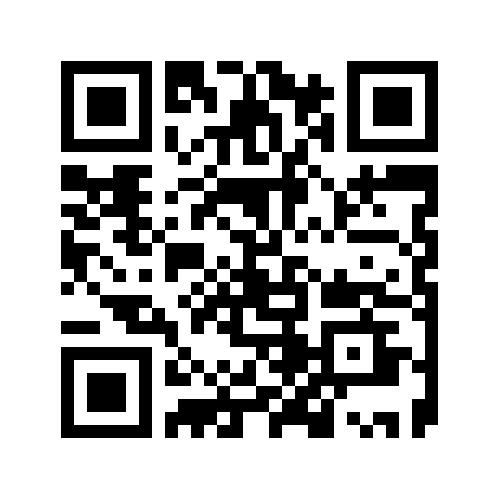
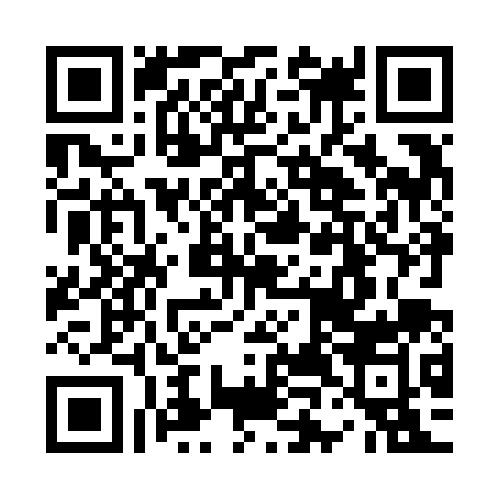
twenty six commit-- the layout and the action for the welcome scan message for the user in seats controller

diff --git a/app/views/welcomeScreenMessage.scala.html b/app/views/welcomeScreenMessage.scala.html
@@ -1,3 +1,5 @@
+@(name: String)
+
 <!DOCTYPE html>
 <html lang="el">
     <head>
@@ -7,25 +9,32 @@
         body {
             display: flex;
             justify-content: center;
-            align-items: center;
             height: 100vh;
             background-color: #f3f4f6;
             margin: 0;
         }
         .welcome-box {
             background: white;
-            padding: 20px;
+            display: flex;
+            justify-content: center;
+            align-items: center;
+            flex-direction: column;
+            width: 50%;
+            height: 50%;
+            margin: 2rem auto;
+            padding: 3rem;
             border-radius: 8px;
             box-shadow: 0px 4px 10px rgba(0, 0, 0, 0.1);
-            font-size: 24px;
+            font-size: 2rem;
             font-weight: bold;
-            color: #333;
+            color: #10d328;
         }
     </style>
     </head>
     <body>
         <div class="welcome-box">
-        Καλώς ορίσατε στην Αίθουσα
+            Καλώς ορίσατε στην Αίθουσα
+            <div style="font-weight: bold; padding: 2rem; color: #777777; text-decoration: #777777">@name</div>
         </div>
     </body>
 </html>

diff --git a/app/controllers/movies/SeatController.java b/app/controllers/movies/SeatController.java
@@ -15,6 +15,7 @@ import controllers.execition_context.DatabaseExecutionContext;
 import controllers.mailer.EmailService;
 import jakarta.persistence.Query;
 import jakarta.persistence.Tuple;
+import models.User.User;
 import models.room.Room;
 import models.seat.Seat;
 import play.db.jpa.JPAApi;
@@ -302,11 +303,6 @@ public class SeatController extends Controller {
             String data = "http://localhost:9000/welcomeScanMessage";
             String path= "/Users/nikolaossarris/Downloads/ticket_play_framework/public/images/qrCode.jpg";
 
-            BitMatrix matrix = new MultiFormatWriter().encode(data, BarcodeFormat.QR_CODE, 500, 500);
-
-            //Store the qr code icon in the static files of play
-            MatrixToImageWriter.writeToPath(matrix, "jpg", Paths.get(path));
-
             try{
 
                 String userEmail = json.findPath("userEmail").asText();
@@ -316,6 +312,12 @@ public class SeatController extends Controller {
                 String date = json.findPath("date").asText();
                 String time = json.findPath("time").asText();
                 double amount = json.findPath("amount").asDouble();
+
+                data += "?userEmail=" + userEmail.replace("@", "%40");
+                BitMatrix matrix = new MultiFormatWriter().encode(data, BarcodeFormat.QR_CODE, 500, 500);
+
+                //Store the qr code icon in the static files of play
+                MatrixToImageWriter.writeToPath(matrix, "jpg", Paths.get(path));
 
                 String[] seatsArray = {};
                 if (seatsNode.isArray()) {
@@ -347,7 +349,39 @@ public class SeatController extends Controller {
 
     //This Action is used for display the welcome message when after the scan of the qr code
     public Result welcomeScanMessage(final Http.Request request) throws IOException {
-        return ok(views.html.welcomeScreenMessage.render());
+        ObjectNode result = Json.newObject();
+        try {
+
+            CompletableFuture<JsonNode> welcomeFuture = CompletableFuture.supplyAsync(() -> {
+                return jpaApi.withTransaction(entityManager -> {
+                    ObjectNode resultOfFuture = Json.newObject();
+
+                    String email = request.getQueryString("userEmail").replace("%40", "@");
+                    System.out.println(email);
+
+                    String sql = "update users set hasEntered = true where email = " + "'" + email + "'";
+
+                    Query query = entityManager.createNativeQuery(sql, User.class);
+                    int rowUpdated = query.executeUpdate();
+
+                    User user = (User) entityManager.createNativeQuery("select * from users where email = " + "'" + email + "'", User.class).getSingleResult();
+
+                    resultOfFuture.put("status", "success");
+                    resultOfFuture.put("row_updated", rowUpdated);
+                    resultOfFuture.put("Username", user.getName());
+                    resultOfFuture.put("system", "USERS_ACTIONS");
+                    return resultOfFuture;
+                });
+            },executionContext);
+
+            result = (ObjectNode) welcomeFuture.get();
+            return ok(views.html.welcomeScreenMessage.render(result.get("Username").asText()));
+
+        }catch (Exception e) {
+            result.put("status", "error");
+            result.put("message", "Σφάλμα κατά την ενημέρωση");
+            return ok(result);
+        }
     }
 
     public Result getSeat(final Http.Request request) throws IOException, ExecutionException, InterruptedException{

diff --git a/app/controllers/User/UsersController.java b/app/controllers/User/UsersController.java
@@ -90,6 +90,8 @@ public class UsersController  extends Controller {
                         user.setEmail(email);
                         if(role.equals("USER") || role.equals("ADMIN")){
                             user.setRole(role);
+                        } else if (!json.has("role")){
+                            user.setRole("USER");
                         } else {
                             resultOfFuture.put("status", "error");
                             resultOfFuture.put("message", "Ο σιγκεκριμένος ρόλος δεν υποστηρίζεται από το σύστημα");
